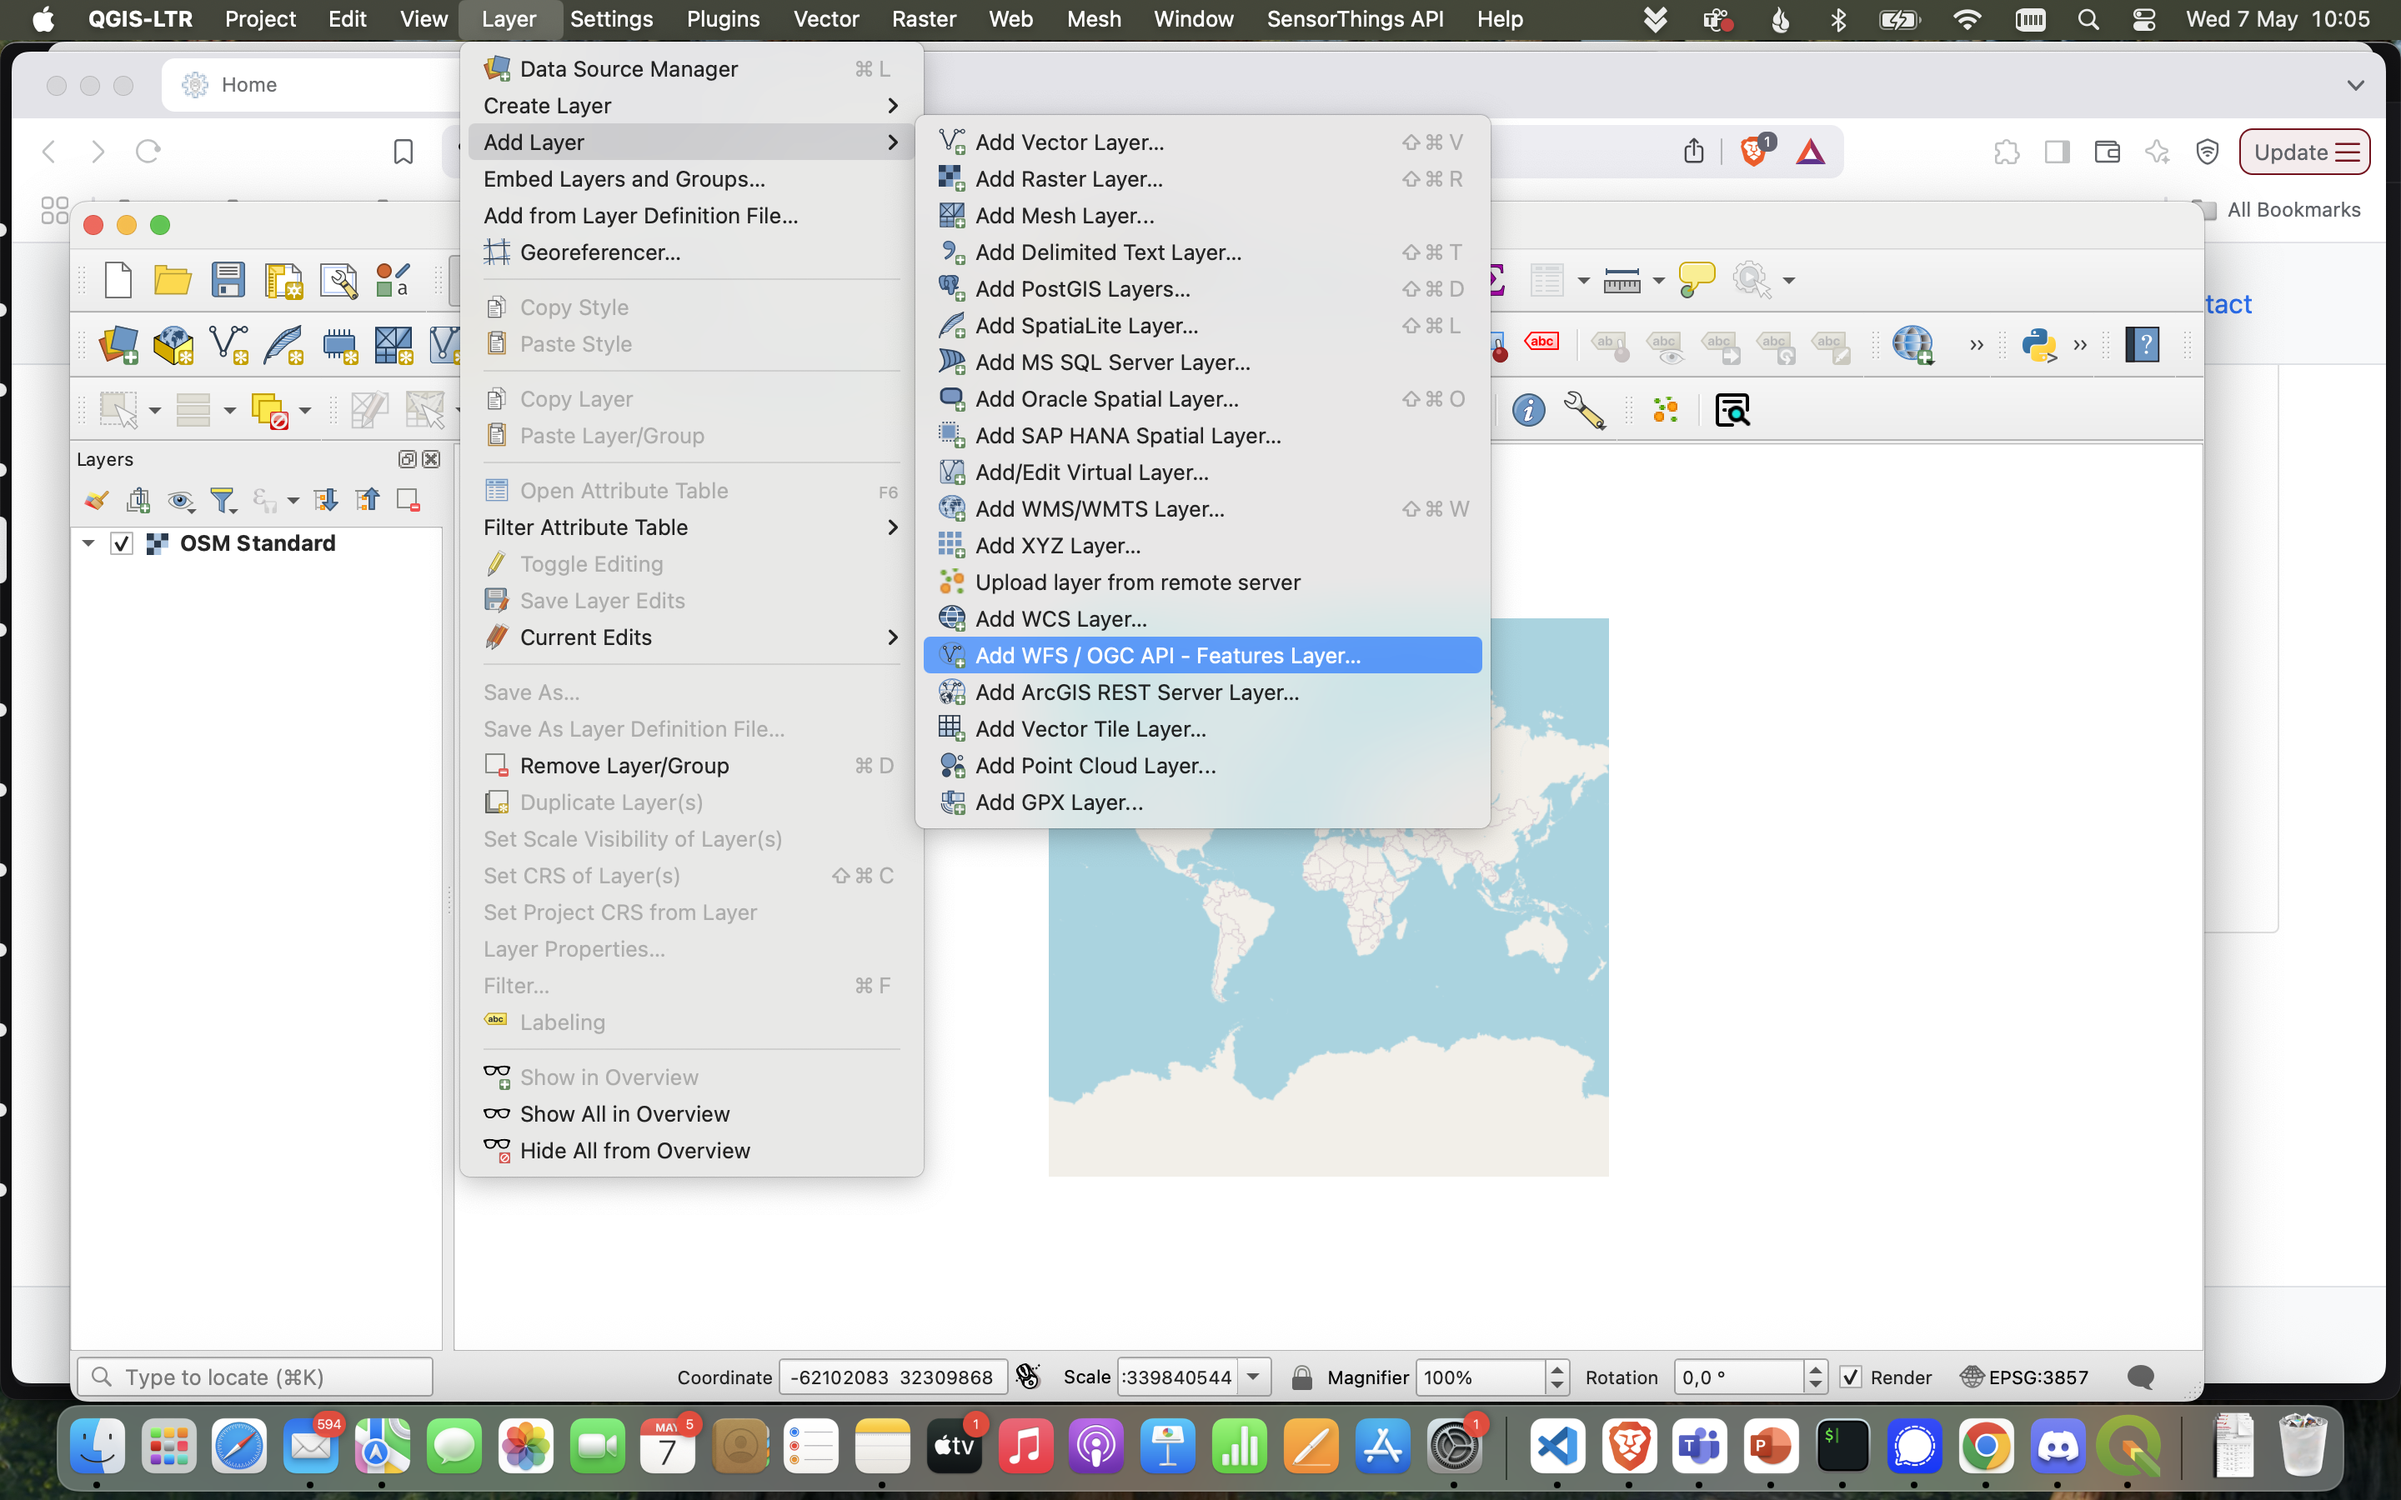
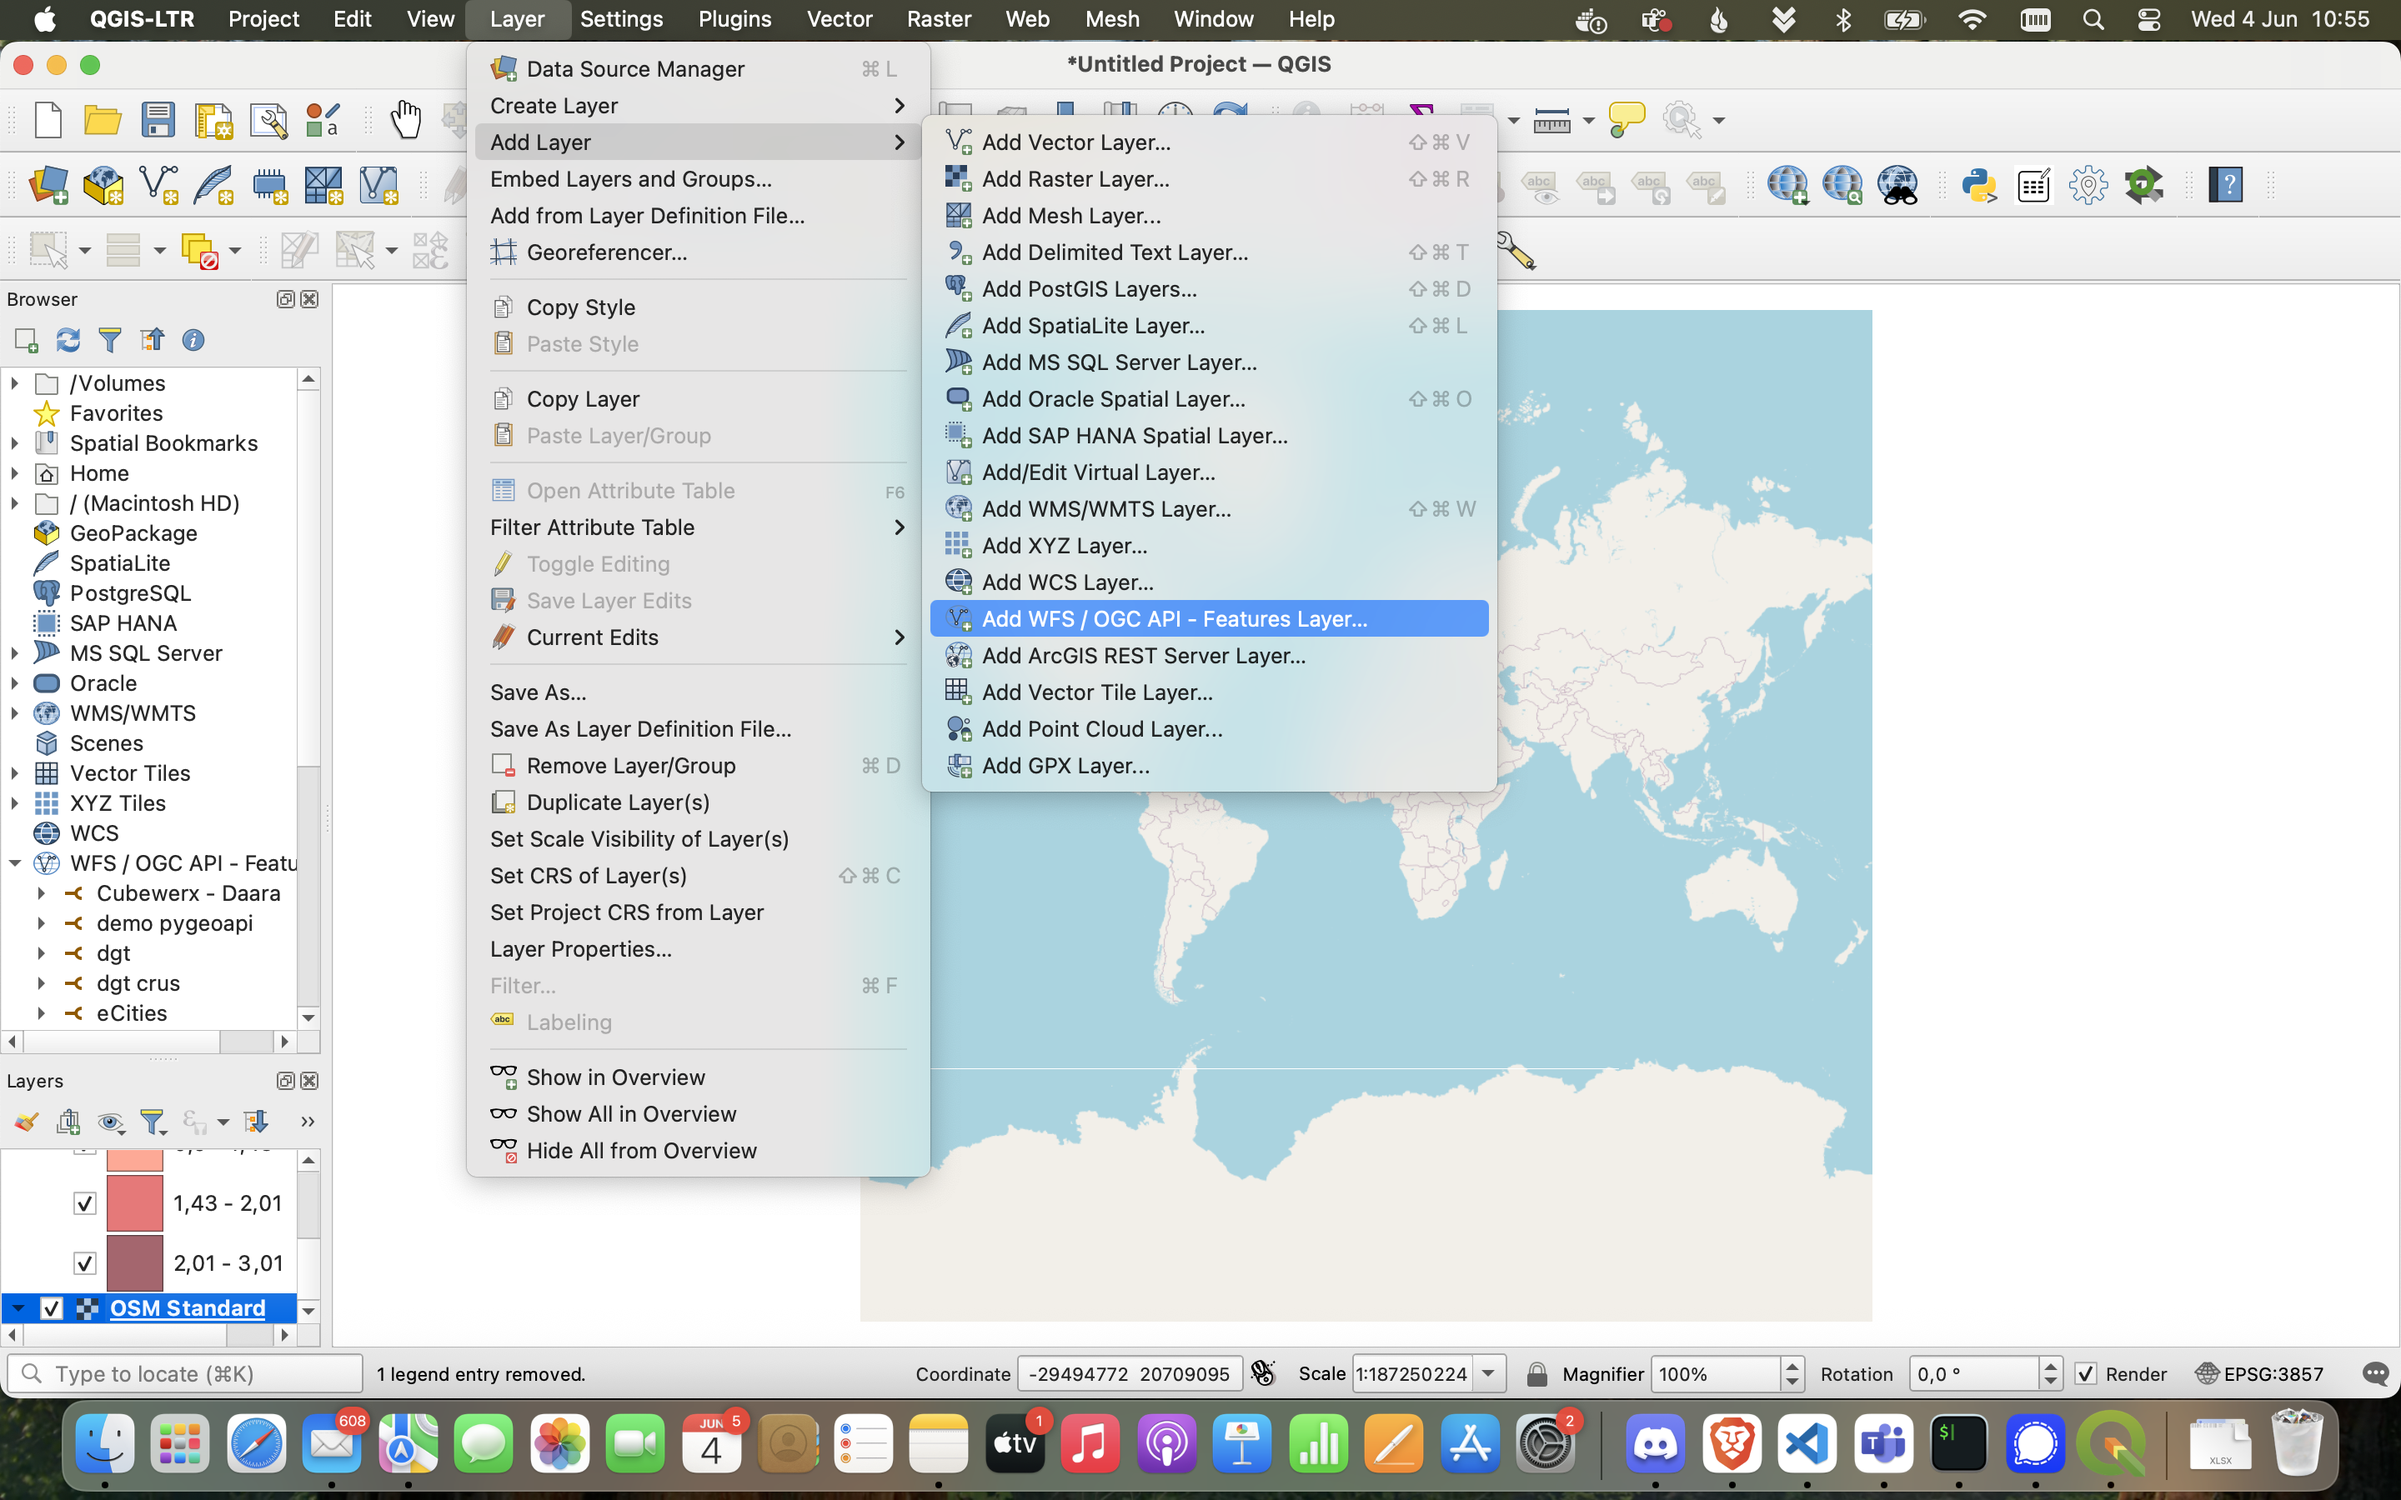
- added QGIS training

Changed region(s): [[0.0, 0.0, 1.0, 1.0], [0.6562, 0.0, 0.75, 0.0311], [0.0938, 0.6844, 0.125, 0.7156]]

diff --git a/QGIS.md b/QGIS.md
@@ -1,46 +1,33 @@
 # QGIS
 
-*[QGIS](https://qgis.org/) is a geographic information system (GIS) software that is free and open-source. QGIS supports Windows, macOS, and Linux. It supports viewing, editing, printing, and analysis of geospatial data in a range of data formats* (Wikipedia).
+* [QGIS](https://qgis.org/) is a geographic information system (GIS) software that is free and open-source. QGIS supports Windows, macOS, and Linux. It supports viewing, editing, printing, and analysis of geospatial data in a range of data formats* (Wikipedia).
 
-*[QGIS](https://qgis.org/)は、無料かつオープンソースの地理情報システム（GIS）ソフトウェアです。QGISはWindows、macOS、Linuxに対応しています。さまざまなデータ形式の地理空間データの表示、編集、印刷、分析をサポートしています*（Wikipedia）。
+* _[QGIS](https://qgis.org/) es un software de sistema de información geográfica (SIG) que es gratuito y de código abierto. QGIS es compatible con Windows, macOS y Linux. Permite visualizar, editar, imprimir y analizar datos geoespaciales en una variedad de formatos de datos (Wikipedia)._
 
-1. QuickMapService をインストール
+1. Install QuickMapService plugin, for a context map| _Instale el complemento QuickMapService para disponer de un mapa de contexto._
 
-`上部メニュー` > `Pugins / プラグイン` の順にクリックし `QuickMapServices`を検索してから`Install Plugin`
+    `Pugins`/`Manage and Install Plugins`/`QuickMapServices`
 
+    ![Install QuickMapServices](img/00_QuickMapServices.png)
 
-![Install QuickMapServices](img/00_QuickMapServices.png)
+2. Add a context map.| _Añada un mapa de contexto._
 
+    ![Add background map](img/0_quickmapoverview.png)
 
-2. コンテキストマップ（QuickMapServices）を追加し、日本へズームインします。<br>　Add a context map (QuickMapServices) and zoom to Japan. 
+3. Add `WFS/OGC API - Features Layer...` from the Layer menu (or browser panel).| _Añada `WFS/OGC API - Features Layer...` desde el menú Capa (o panel del navegador)._
 
-![Zoom to Japan](img/0_zoomjapan.png)
+    ![Add WFS layer](img/1_addlayer.png)
 
-3. `上部メニュー` > `レイヤ` > `レイヤを追加` （またはブラウザパネル）から `WFS/OGC API - 地物 レイヤーを追加...`を選択します。<br> `Add WFS/OGC API - Features Layer...` from the Layer menu (or browser panel).
+4. Instantiate a new server connection. Set connection details, using the Landing Page url - https://emotional.byteroad.net/ - and setting the maximum number of features (5000) to overcome the default server limits; remove paging. | _Cree una nueva conexión al servidor. Configure los detalles de la conexión usando la URL de la landing Page (https://emotional.byteroad.net/) y estableciendo el número máximo de features (5000) para superar los límites predeterminados del servidor; elimine la paginación._
 
-![Add WFS layer](img/1_addlayer.png)
+    ![Connect to server](img/2_connectiondetails.png)
 
-4. 新しいサーバー接続を設定します。*`https://pygeoapi.glodal-inc.net`をURLに設定し、サーバー負荷の理由から最大特徴数（500）とページング（100）に制限します。*　<br>Instantiate a new server connection. *Set connection details, using the landing page url and limiting the maximum number of features (500) and paging (100), for performance reasons!*
+5. Add the [Vibrancy Index collection](https://emotional.byteroad.net/collections/lisbon_vibrancy_index): `lisbon_vibrancy_index`. | _Añada la [Vibrancy Index collection](https://emotional.byteroad.net/collections/lisbon_vibrancy_index): `lisbon_vibrancy_index`._
 
-![Connect to server](img/2_serverconnection.png)
+    ![Add collection](img/3_addcollection.png)
 
-5.  [ダムのcollection](https://pygeoapi.glodal-inc.net/collections/W01)： `ダム W01-05-g` を追加します。<br>Add the [dam collection](https://pygeoapi.glodal-inc.net/collections/W01): `ダム W01-05-g`.
+6. Zoom to the layer extent. If you want, you can change the style by right-clicking on the layer to bring up the context menu and then selecting `properties`| _Acercar a la extensión de la capa. Si lo desea, puede cambiar el estilo haciendo clic derecho en la capa para abrir el menú contextual y seleccionando `propriedades`:_
 
-![Add collection](img/3_addcollection.png)
+    ![View Layer](img/4_viewcollection.png)
 
-6. 必要に応じて、レイヤーを右クリックしてコンテキストメニューを表示し、`プロパティ` を選択してスタイルを変更できます <br>If you want, you can change the style by right-clicking on the layer to bring up the context menu and then selecting `properties`:
-
-![View Layer](img/6_loadlayer.png)
-
-7. `シンボル` タブに移動し、ドロップダウンメニューから `分類` を選択します。`値` では、色グラデーションに使用するフィールドを選択し、`分類` をクリックします。<br>Go to the `symbology` tab and choose `categorized` on the drop-down menu; on `value`, select the field that you want to use for the color ramp, and then click `classify`.
-
-![Symbol](img/7_symbol.png)
-
-8. `ラベル` タブに移動し、ドロップダウンメニューから `単一定義` を選択します。`値` にはラベルに使用するフィールドを選択し、`テキストラベルを表示` と `テキストバッファを描画` のオプションを有効にします。ダイアログを閉じるために `OK` をクリックします。<br>Go to the `labels` tab and choose `single labels` on the drop-down menu; on `value`, select the field that you want to use for the labels, and enable the options `Draw text label` and `Color buffer's fill`; click `ok` to close the dialogue.
-
-![Label](img/8_label.png)
-
-![View styled](img/9_viewlayer.png)
-
-You can find more information on how-to style layers in QGIS on [this](https://docs.qgis.org/3.40/en/docs/user_manual/working_with_vector/vector_properties.html#index-1) and [this](https://docs.qgis.org/3.40/en/docs/training_manual/vector_classification/label_tool.html) pages of the official documentation. <br>
-QGISでのレイヤーのスタイル設定に関する詳細情報は、[公式ドキュメント]（https://docs.qgis.org/3.40/en/docs/user_manual/working_with_vector/vector_properties. html#index-1） および [こちらの公式ドキュメント](https://docs.qgis.org/3.40/en/docs/training_manual/vector_classification/label_tool.html)を参照してください。
+You can find more information on how-to style layers in QGIS on [this](https://docs.qgis.org/3.40/en/docs/user_manual/working_with_vector/vector_properties.html#index-1) and [this](https://docs.qgis.org/3.40/en/docs/training_manual/vector_classification/label_tool.html) pages of the official documentation.| _Puede encontrar más información sobre cómo aplicar estilos a capas en QGIS en [esta](https://docs.qgis.org/3.40/es/docs/user_manual/working_with_vector/vector_properties.html#index-1) y [esta](https://docs.qgis.org/3.40/es/docs/training_manual/vector_classification/label_tool.html) páginas de la documentación oficial._

diff --git a/README.md b/README.md
@@ -14,11 +14,11 @@ Después de completar este taller, deberías ser capaz de integrar OGC API - Fea
 
 Before starting the workshop, make sure that you have access to a computer with the following installed:
 
-_Antes de empezar el taller, asegúrate de tener acceso a un ordenador con lo siguiente instalado:_
+_Antes de empezar el taller, asegúrese de tener acceso a un ordenador con lo siguiente instalado:_
 
-* ✅ QGIS: you can follow the [instructions on the official website](https://qgis.org/resources/installation-guide/) to install it. | _QGIS: Puedes seguir las [instrucciones en el sitio web oficial](https://qgis.org/resources/installation-guide/) para instalarlo._
-* ✅ Jupyter notebook: You can follow [these](https://jupyter.org/install) instructions to install it with pip. | _Jupyter Notebook: Puedes seguir [estas](https://jupyter.org/install) instrucciones para instalarlo usando pip._
-* ✅ A text editor: I 💙 [VS code](https://code.visualstudio.com/), but feel free to choose whatever you like. | _Un editor de texto: Yo 💙 [VS code](https://code.visualstudio.com/), pero siéntete libre de usar el que prefieras._
+* ✅ QGIS: you can follow the [instructions on the official website](https://qgis.org/resources/installation-guide/) to install it. | _QGIS: Puede seguir las [instrucciones en el sitio web oficial](https://qgis.org/resources/installation-guide/) para instalarlo._
+* ✅ Jupyter notebook: You can follow [these](https://jupyter.org/install) instructions to install it with pip. | _Jupyter Notebook: Puede seguir [estas](https://jupyter.org/install) instrucciones para instalarlo usando pip._
+* ✅ A text editor: I 💙 [VS code](https://code.visualstudio.com/), but feel free to choose whatever you like. | _Un editor de texto: Yo 💙 [VS code](https://code.visualstudio.com/), pero siéntase libre de usar el que prefiera._
   
 ## Introduction| Introducción
 
@@ -36,7 +36,7 @@ https://emotional.byteroad.net/openapi?f=html
 
 Explore OGC API using different technologies.
 
-_Explora las OGC API usando diferentes tecnologías:_
+_Explore las OGC API usando diferentes tecnologías:_
 
 * [QGIS](QGIS.md)
 * [Python/OWSLib](python.md)
@@ -46,7 +46,7 @@ _Explora las OGC API usando diferentes tecnologías:_
 
 Continue your journey, by learning more about OGC API with these learning resources:
 
-_Continúa tu aprendizaje y profundiza más sobre la API de OGC con estos recursos:_
+_Continúe su aprendizaje y profundize más sobre la API de OGC con estos recursos:_
 
 * OGC API Workshop| _Taller de OGC API: https://ogcapi-workshop.ogc.org/_
 * pygeoapi Workshop| _Taller de pygeoapi: https://dive.pygeoapi.io/_
